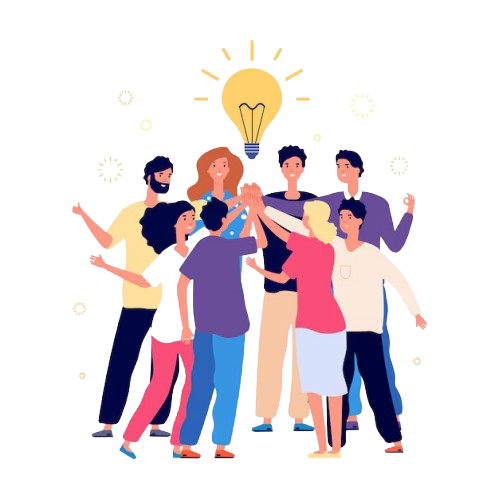
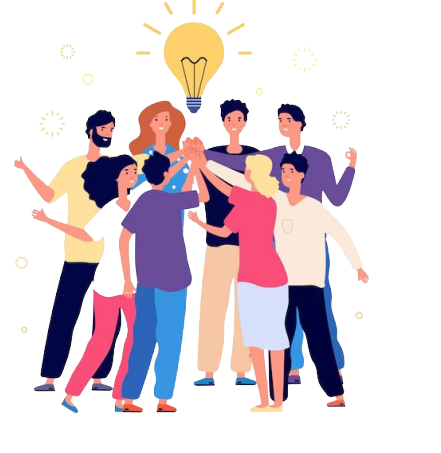
intropage

diff --git a/app/pages/intro/page.tsx b/app/pages/intro/page.tsx
@@ -2,7 +2,7 @@
 
 import { useState } from "react";
 import { useRouter } from "next/navigation";
-
+import "./intro.css"
 const IntroPage = () => {
   const [currentSlide, setCurrentSlide] = useState(0);
   const router = useRouter(); // To navigate to the signup page
@@ -50,15 +50,15 @@ const IntroPage = () => {
   };
 
   return (
-    <div className="h-screen w-screen bg-gray-900 dark:bg-gray-900 flex items-center justify-center px-4">
-      <div className="bg-white dark:bg-gray-800 shadow-xl rounded-lg flex flex-col md:flex-row w-full max-w-4xl p-6 md:p-8">
+    <div className="h-screen w-screen bg-[#eee4e1] dark:bg-gray-900 flex items-center justify-center px-4">
+      <div className="bg-[#e7d8c9] dark:bg-gray-800 shadow-xl rounded-lg flex flex-col md:flex-row w-full max-w-4xl p-6 md:p-8">
         {/* Left Section - Image */}
         <div className="flex-1 flex items-center justify-center">
           <div className="w-full h-64 md:h-80 flex items-center justify-center overflow-hidden">
             <img
               src={slides[currentSlide].image}
               alt={slides[currentSlide].title}
-              className="w-full h-full object-contain"
+              className="w-full h-full object-contain floating-image"
             />
           </div>
         </div>

diff --git a/app/pages/intro/intro.css b/app/pages/intro/intro.css
@@ -1,0 +1,16 @@
+@keyframes floatUpDown {
+    0% {
+      transform: translateY(0px);
+    }
+    50% {
+      transform: translateY(-20px);
+    }
+    100% {
+      transform: translateY(0px);
+    }
+  }
+  
+  .floating-image {
+    animation: floatUpDown 3s ease-in-out infinite;
+  }
+  
